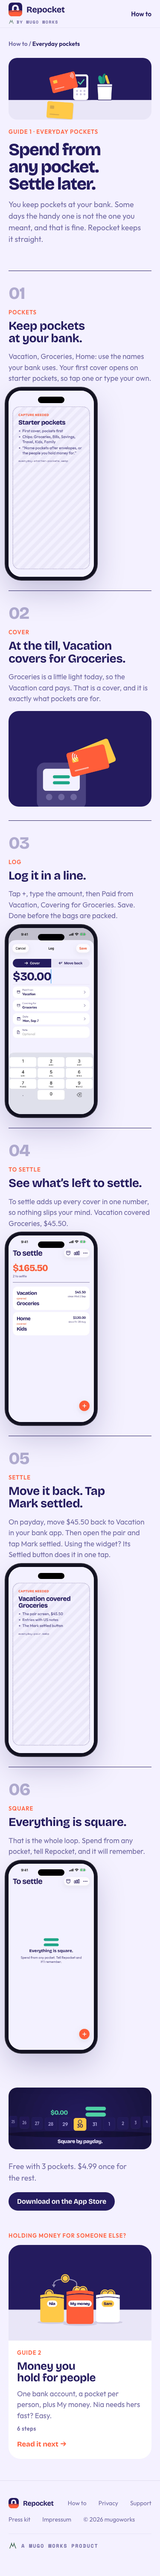
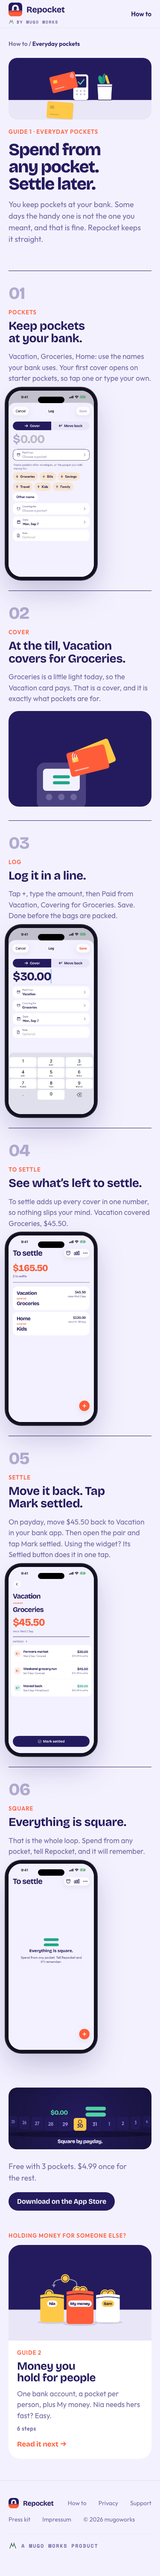
feat(how-to): the five real 1.0.1 How to captures in their screen slots [repocket-site-es7]
Fills the five placeholder slots in assets/screens/how-to/ with app repo
bead repocket-0bpt's en-US captures from docs/marketing/screenshots/howto/,
each resized to 640x1392 with sips and saved with cwebp -q 85 -metadata
none: everyday-starter-pockets, everyday-pair, people-picker, people-log
and people-to-settle (the grouped "Back to My money" screen).

The people panels show only a window of each screen, and that window
cut Nia out of the picker and To settle at both widths, and Covering for
Nia out of the Log panel at 375. Each screen panel now slides its capture
to the rows its caption names (at-picker, at-log, at-settle), with the
corner chip clear of "Back to My money".

Copy now matches the screens: panel 4 no longer says To settle shows "My
money covered Nia" (the grouped screen lists Nia's $250.00 under Back to
My money), and the alt text quotes what each new capture shows. The stack
adapter names repocket-0bpt's folder as the five slots' source, keeps the
swap recipe, and notes the flat To settle alternate and the offsets.

The hub and both guides are re-rendered at 1440 and 375 with reduced
motion: no horizontal scroll, no console errors, every image loaded.

Bead: repocket-site-es7

Changed region(s): [[0.0587, 0.1245, 0.5573, 0.2179], [0.0587, 0.5915, 0.5867, 0.6849], [0.5573, 0.1557, 0.5867, 0.2179]]

diff --git a/how-to/people.html b/how-to/people.html
@@ -59,6 +59,9 @@ nav.site .wrap{display:flex;align-items:center;gap:18px;min-height:64px}
 .pn .frame>img{width:100%;height:100%;object-fit:cover}
 .pn .frame.scr>img{width:86%;height:auto;margin:22px auto 0;border-radius:22px;box-shadow:0 10px 30px rgba(0,0,0,.3)}
 .pn .frame.scr.mid>img{margin-top:0;transform:translateY(-33%)}
+/* each screen panel shows only a window of its capture, so it slides to the rows its caption names */
+.pn .frame.scr.at>img{margin-top:0;transform:translateY(var(--at))}
+.pn .frame.at-picker{--at:-15.5%}.pn .frame.at-log{--at:-13%}.pn .frame.at-settle{--at:-18.6%}
 .pn .chip{position:absolute;top:14px;left:14px;z-index:2;padding:5px 10px;border-radius:999px;background:#fff;color:var(--ink);font:600 12px var(--text);letter-spacing:.04em}
 .pn .cap{padding:18px 22px 22px;display:flex;gap:14px;align-items:flex-start}
 .pn .no{flex:none;width:34px;height:34px;border-radius:50%;background:var(--coral);color:#fff;font:800 15px var(--display);display:flex;align-items:center;justify-content:center}
@@ -132,7 +135,7 @@ footer{padding:40px 0 60px;border-top:1px solid rgba(36,27,94,.1);font-size:14px
  <ol class="panels">
   <li class="pn">
    <span class="chip">Pockets</span>
-   <div class="frame scr"><img src="../assets/screens/how-to/people-picker.webp" width="640" height="1392" decoding="async" loading="lazy" alt="Repocket's pocket picker with a pocket for Nia, one for My money, and a few more people's pockets."></div>
+   <div class="frame scr at at-picker"><img src="../assets/screens/how-to/people-picker.webp" width="640" height="1392" decoding="async" loading="lazy" alt="Repocket's Log sheet on Cover with the Paid from picker open over the people's pockets: Ama, Leo, Maya, My money, Nia and Sam."></div>
    <div class="cap"><span class="no" aria-hidden="true">1</span><div><h3>Nia, everyone else, and My money.</h3><p>Nia gets a pocket, and so does everyone else on your list. Add one called My money for your own share.</p></div></div>
   </li>
   <li class="pn">
@@ -142,13 +145,13 @@ footer{padding:40px 0 60px;border-top:1px solid rgba(36,27,94,.1);font-size:14px
   </li>
   <li class="pn">
    <span class="chip">Log</span>
-   <div class="frame scr"><img src="../assets/screens/how-to/people-log.webp" width="640" height="1392" decoding="async" loading="lazy" alt="Repocket's Log sheet on Cover: $250.00, Paid from My money, Covering for Nia."></div>
+   <div class="frame scr at at-log"><img src="../assets/screens/how-to/people-log.webp" width="640" height="1392" decoding="async" loading="lazy" alt="Repocket's Log sheet on Cover: $250.00, Paid from My money, Covering for Nia, dated Mon, Sep 7, with the number pad open."></div>
    <div class="cap"><span class="no" aria-hidden="true">3</span><div><h3>Paid from My money, covering for Nia.</h3><p>Log it in one line and Repocket remembers. No spreadsheet cell to hunt for.</p></div></div>
   </li>
   <li class="pn">
    <span class="chip">To settle</span>
-   <div class="frame scr"><img src="../assets/screens/how-to/people-to-settle.webp" width="640" height="1392" decoding="async" loading="lazy" alt="Repocket's To settle screen: under Back to My money, My money covered Nia for $250.00."></div>
-   <div class="cap"><span class="no" aria-hidden="true">4</span><div><h3>My money covered Nia. Back to My money.</h3><p>To settle shows My money covered Nia, right where you left it, until her share comes back to you.</p></div></div>
+   <div class="frame scr at at-settle"><img src="../assets/screens/how-to/people-to-settle.webp" width="640" height="1392" decoding="async" loading="lazy" alt="Repocket's To settle screen: $555.00, 5 to settle, all under Back to My money: Ama, Leo, Maya, Nia for $250.00 since Mon 7 Sep, and Sam."></div>
+   <div class="cap"><span class="no" aria-hidden="true">4</span><div><h3>My money covered Nia. Back to My money.</h3><p>To settle keeps Nia’s $250.00 right where you left it, until her share comes back to you.</p></div></div>
   </li>
   <li class="pn">
    <span class="chip">Settle</span>

diff --git a/how-to/everyday.html b/how-to/everyday.html
@@ -120,7 +120,7 @@ footer{padding:40px 0 60px;border-top:1px solid rgba(36,27,94,.1);font-size:14px
   <li class="st">
    <span class="num" aria-hidden="true">01</span>
    <div class="txt"><div class="k">Pockets</div><h2>Keep pockets at your bank.</h2><p class="body">Vacation, Groceries, Home: use the names your bank uses. Your first cover opens on starter pockets, so tap one or type your own.</p></div>
-   <div class="media"><div class="phone"><span class="di" aria-hidden="true"></span><img src="../assets/screens/how-to/everyday-starter-pockets.webp" width="640" height="1392" decoding="async" loading="lazy" alt="Repocket's first cover opens on the starter pockets: Groceries, Bills, Savings, Travel, Kids and Family, under the line Name pockets after envelopes, or the people you hold money for."></div></div>
+   <div class="media"><div class="phone"><span class="di" aria-hidden="true"></span><img src="../assets/screens/how-to/everyday-starter-pockets.webp" width="640" height="1392" decoding="async" loading="lazy" alt="Repocket's first cover opens on the starter pockets: Groceries, Bills, Savings, Travel, Kids, Family and Other name, under the line Name pockets after envelopes, or the people you hold money for."></div></div>
   </li>
   <li class="st">
    <span class="num" aria-hidden="true">02</span>
@@ -140,7 +140,7 @@ footer{padding:40px 0 60px;border-top:1px solid rgba(36,27,94,.1);font-size:14px
   <li class="st">
    <span class="num" aria-hidden="true">05</span>
    <div class="txt"><div class="k">Settle</div><h2>Move it back. Tap Mark settled.</h2><p class="body">On payday, move $45.50 back to Vacation in your bank app. Then open the pair and tap Mark settled. Using the widget? Its Settled button does it in one tap.</p></div>
-   <div class="media"><div class="phone"><span class="di" aria-hidden="true"></span><img src="../assets/screens/how-to/everyday-pair.webp" width="640" height="1392" decoding="async" loading="lazy" alt="The pair screen: Vacation covered Groceries, $45.50, with its entries and the Mark settled button."></div></div>
+   <div class="media"><div class="phone"><span class="di" aria-hidden="true"></span><img src="../assets/screens/how-to/everyday-pair.webp" width="640" height="1392" decoding="async" loading="lazy" alt="The pair screen: Vacation covered Groceries, $45.50 since Wed 2 Sep. Its three entries are Farmers market and Weekend grocery run, both covered, and $30.00 moved back, then the Mark settled button."></div></div>
   </li>
   <li class="st">
    <span class="num" aria-hidden="true">06</span>

diff --git a/docs/adapters/stack.md b/docs/adapters/stack.md
@@ -42,23 +42,33 @@ URL until a custom domain is added.
 - `assets/screens/how-to/` holds the How to guides' phone screens in the same format: an en-US
   1320x2868 capture resized to 640x1392 and saved with `cwebp -q 85`. Each file is a fixed
   **screen slot** the page points at, so replacing a screen is dropping the converted capture in
-  at the same path; the HTML and its alt text already describe the final screen. Three slots hold
-  real 1.0.1 captures (`everyday-log`, `everyday-to-settle` and `all-square`, from the app repo's
-  `docs/marketing/screenshots/appstore/set-2/en-US/sources/`). Five hold a "Capture needed"
-  placeholder until app repo bead repocket-0bpt delivers them:
+  at the same path; the HTML and its alt text describe the screen each slot holds. All eight slots
+  hold real 1.0.1 captures. Three come from the app repo's
+  `docs/marketing/screenshots/appstore/set-2/en-US/sources/` (`everyday-log`, `everyday-to-settle`
+  and `all-square`). Five come from app repo bead repocket-0bpt's
+  `docs/marketing/screenshots/howto/` (its README there says how they were captured):
 
-  | Slot | Page and step | The capture that replaces it |
+  | Slot | Page and step | Its capture in `docs/marketing/screenshots/howto/` |
   |------|---------------|------------------------------|
-  | `everyday-starter-pockets.webp` | everyday, step 1 | the first cover on the starter pockets, with the line "Name pockets after envelopes, or the people you hold money for." |
-  | `everyday-pair.webp` | everyday, step 5 | the pair screen for Vacation covered Groceries, $45.50, with US notes and the Mark settled button |
-  | `people-picker.webp` | people, panel 1 | the pocket picker with Nia, My money and a few more people's pockets |
-  | `people-log.webp` | people, panel 3 | the Log sheet on Cover: $250.00, Paid from My money, Covering for Nia |
-  | `people-to-settle.webp` | people, panel 4 | To settle with "My money covered Nia" under "Back to My money" |
+  | `everyday-starter-pockets.webp` | everyday, step 1 | `everyday-starter-pockets.png`: the first cover on the starter pockets, with the line "Name pockets after envelopes, or the people you hold money for." |
+  | `everyday-pair.webp` | everyday, step 5 | `everyday-pair.png`: the pair screen for Vacation covered Groceries, $45.50, with the notes "Farmers market" and "Weekend grocery run" and the Mark settled button |
+  | `people-picker.webp` | people, panel 1 | `people-picker.png`: the Paid from picker over Ama, Leo, Maya, My money, Nia and Sam |
+  | `people-log.webp` | people, panel 3 | `people-log.png`: the Log sheet on Cover: $250.00, Paid from My money, Covering for Nia |
+  | `people-to-settle.webp` | people, panel 4 | `people-to-settle.png`: To settle with Nia's $250.00 under "Back to My money" |
+
+  The capture set also holds `people-to-settle-flat.png`, an alternate for `people-to-settle`
+  (flat cards, one reading "My money covered Nia", no "Back to My money" header). Swapping it in is
+  the one WebP plus that panel's alt text in `how-to/people.html`. Its "My money covered Nia" card
+  stays in view at the panel's current offset; only a sliver of its larger total shows at the top
+  edge, which an offset near -21% tidies.
 
   To swap one: `sips -z 1392 640 <capture>.png --out /tmp/slot.png && cwebp -q 85 -metadata none
   /tmp/slot.png -o assets/screens/how-to/<slot>.webp`, then render the page. The people panels
-  show only the top of each screen (roughly its first 45 percent), so the row that matters should
-  sit near the top of the capture.
+  show only a window of each screen (roughly 40 percent of its height at 375, 50 percent at
+  1440), so each screen panel slides its capture up to the rows its caption names: the
+  `at-picker`, `at-log` and `at-settle` classes in `how-to/people.html` set that offset as a
+  share of the screen's height. A new capture with a different layout needs its offset checked
+  at both widths, with the corner chip clear of the words that matter.
 - `assets/press/` holds the press kit files that `press.html` shows and links: the en-US App
   Store frames, app screens and widgets (PNG, copied unchanged from the app repo), the four
   illustrations at 21:9, 16:9 and 3:2 (plus 1200px WebP previews for the page), the app icon (SVG,
